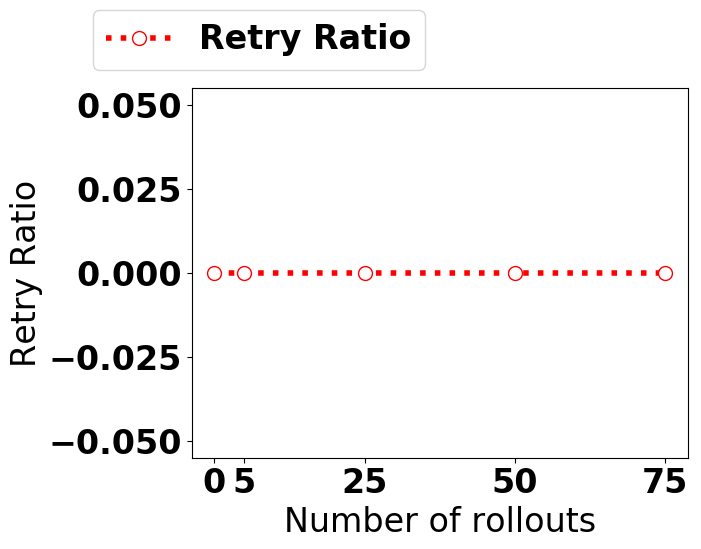
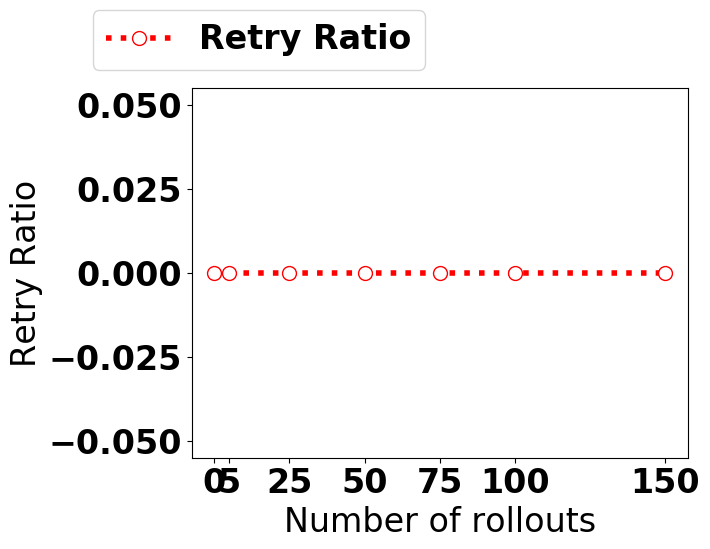
Optimizing success-ratio

diff --git a/RAE_and_RAEplan/RAE1_and_RAEplan.py b/RAE_and_RAEplan/RAE1_and_RAEplan.py
@@ -18,7 +18,7 @@ import sys, pprint
 import os
 import GLOBALS
 import rTree
-#import colorama
+import colorama
 from timer import globalTimer, DURATION
 from dataStructures import rL_APE, rL_PLAN
 from APE_stack import print_entire_stack, print_stack_size
@@ -271,12 +271,16 @@ def RAE1(task, raeArgs):
 
     if retcode == 'Failure':
         raeLocals.SetUtility(Utility('Failure'))
+        raeLocals.SetEfficiency(0)
+
+    if GLOBALS.GetOpt() == "max":
+        assert(numpy.isclose(raeLocals.GetEfficiency(), raeLocals.GetUtility().GetValue()))
 
     #raeLocals.GetActingTree().PrintUsingGraphviz()
     h, t, c = raeLocals.GetActingTree().GetMetaData()
     return (retcode, 
         raeLocals.GetRetryCount(), 
-        raeLocals.GetUtility(), 
+        raeLocals.GetEfficiency(), 
         h, t, c, 
         raeLocals.GetPlanningUtilitiesList())
 
@@ -293,6 +297,7 @@ def InitializeStackLocals(task, raeArgs):
     aT.SetPrevState(GetState().copy())
     raeLocals.SetActingTree(aT)
     raeLocals.SetUtility(Utility('Success'))
+    raeLocals.SetEfficiency(float("inf"))
     
 def GetCandidateByPlanning(candidates, task, taskArgs):
     """
@@ -311,7 +316,6 @@ def GetCandidateByPlanning(candidates, task, taskArgs):
         queue, 
         candidates,
         GetState().copy(),
-        raeLocals.GetGuideList(),
         raeLocals.GetSearchTree()])
 
     p.start()
@@ -366,6 +370,8 @@ def DoTaskInRealWorld(task, taskArgs):
 
         node.Clear() # Clear it on every iteration for a fresh start
         node.SetPrevState(GetState().copy())
+        if GLOBALS.GetOpt() == "sr": # there may be a better way to do this
+            raeLocals.SetUtility(Utility("Success"))
 
         (m,candidates) = choose_candidate(candidates, task, taskArgs)
         node.SetLabelAndType(m, 'method')
@@ -595,13 +601,18 @@ def FollowSearchTree_task(task, taskArgs, node):
 
 def GetHeuristicEstimate():
     task, args = planLocals.GetHeuristicArgs()
-    return heuristic[task](args)
+    res = heuristic[task](args)
+    if GLOBALS.GetOpt() == "sr":
+        if res > 0:
+            return 1
+        else:
+            return 0
+    return res
     
 def PlanTask(task, taskArgs):
     # Need to look through several candidates for this task
     cand, state, flag = GetCandidates(task, taskArgs)
 
-    #guideList = planLocals.GetGuideList()
     searchTreeNode = planLocals.GetSearchTreeNode()
     taskNode = rTree.SearchTreeNode('task', 'task')
     searchTreeNode.AddChild(taskNode)
@@ -776,6 +787,18 @@ def GetNewId():
     return GetNewId.num
 GetNewId.num = 0
 
+def AddEfficiency(e1, e2):
+
+    if e1 == float("inf"):
+        res = e2
+    elif e2 == float("inf"):
+        res = e1
+    elif e1 == 0 and e2 == 0:
+        res = 0
+    else:
+        res = e1 * e2 / (e1 + e2)
+    return res
+
 def DoCommandInRealWorld(cmd, cmdArgs):
     global path
     path[raeLocals.GetStackId()].append([cmd, cmdArgs])
@@ -845,11 +868,15 @@ def DoCommandInRealWorld(cmd, cmdArgs):
     if cmd.__name__ == "fail" or retcode == 'Failure':
         util1 = GetFailureUtility(cmd, cmdArgs)
         raeLocals.AddToPlanningUtilityList('fail')
+        eff1 = GetFailureEfficiency(cmd, cmdArgs)
     else:
         util1 = GetUtility(cmd, cmdArgs)
+        eff1 = GetEfficiency(cmd, cmdArgs)
         raeLocals.AddToPlanningUtilityList(cmd.__name__)
     util2 = raeLocals.GetUtility()
     raeLocals.SetUtility(util1 + util2)
+    eff2 = raeLocals.GetEfficiency()
+    raeLocals.SetEfficiency(AddEfficiency(eff1, eff2))
 
     if verbose > 1:
         print_entire_stack(raeLocals.GetStackId(), path)
@@ -1012,18 +1039,37 @@ def GetCost(cmd, cmdArgs):
         return cost
 
 def GetFailureUtility(cmd, cmdArgs):
-    return Utility(1/20)
+    if GLOBALS.GetOpt() != "sr":
+        return Utility(1/20)
+    else:
+        return Utility("Failure")
 
 def GetUtility(cmd, cmdArgs):
     assert(cmd.__name__ != "fail")
-    if GLOBALS.GetDomain() == "SD" and cmd.__name__ == "helpRobot":
+    if GLOBALS.GetDomain() == "SD" and cmd.__name__ == "helpRobot": # kluge because I forgot to add this cost in the auto-gen problems
+        cost = 7
+    else:
+        cost = DURATION.COUNTER[cmd.__name__]
+    if GLOBALS.GetOpt() == "sr":
+        return Utility("Success")
+    elif type(cost) == types.FunctionType:
+        return Utility(1/cost(*cmdArgs))
+    else:
+        return Utility(1/cost)
+
+def GetFailureEfficiency(cmd, cmdArgs):
+    return 1/20
+
+def GetEfficiency(cmd, cmdArgs):
+    assert(cmd.__name__ != "fail")
+    if GLOBALS.GetDomain() == "SD" and cmd.__name__ == "helpRobot": # kluge because I forgot to add this cost in the auto-gen problems
         cost = 7
     else:
         cost = DURATION.COUNTER[cmd.__name__]
     if type(cost) == types.FunctionType:
-        return Utility(1/cost(*cmdArgs))
+        return 1/cost(*cmdArgs)
     else:
-        return Utility(1/cost)
+        return 1/cost
 
 ## Verbosity functions 
 

diff --git a/shared/utility.py b/shared/utility.py
@@ -10,12 +10,21 @@ class Utility():
                 self.value = float("inf")
             else:
                 self.value = val    
-        else:
+        elif GLOBALS.GetOpt() == 'max':
             if val == 'Failure':
                 self.value = 0
             elif val == 'Success':
                 self.value = float("inf")
             else:
+                self.value = val
+        elif GLOBALS.GetOpt() == "sr":
+            if val == "Failure":
+                self.value = 0
+            elif val == "Success":
+                self.value = 1
+            else:
+                if val != "UNK":
+                    assert(val >= 0 and val <= 1)
                 self.value = val
 
     def __gt__(self, other): 
@@ -54,17 +63,22 @@ class Utility():
         return str(self.value)
 
     def __add__(self, other):
-        e1 = self.value
-        e2 = other.value
-        if e1 == float("inf"):
-            res = e2
-        elif e2 == float("inf"):
-            res = e1
-        elif e1 == 0 and e2 == 0:
-            res = 0
-        else:
-            res = e1 * e2 / (e1 + e2)
-        return Utility(res)
+        if GLOBALS.GetOpt() == "max":
+            e1 = self.value
+            e2 = other.value
+            if e1 == float("inf"):
+                res = e2
+            elif e2 == float("inf"):
+                res = e1
+            elif e1 == 0 and e2 == 0:
+                res = 0
+            else:
+                res = e1 * e2 / (e1 + e2)
+            return Utility(res)
+        elif GLOBALS.GetOpt() == "sr":
+            sr1 = self.value
+            sr2 = other.value
+            return Utility(sr1 * sr2)
 
     def SetValue(self, val):
         self.value = val

diff --git a/shared/domains/domain_testInstantiation.py b/shared/domains/domain_testInstantiation.py
@@ -11,9 +11,25 @@ import gui
 from state import state, rv
 from timer import globalTimer
 import GLOBALS
+import numpy
 
 def fail():
     return FAILURE
+
+commandProb = {
+    'sr1': [0.9, 0.1],
+    'sr2': [0.7, 0.3],
+    'sr3': [0.3, 0.7],
+}
+
+def Sense(cmd):
+    p = commandProb[cmd]
+    outcome = numpy.random.choice(len(p), 50, p=p)
+    res = outcome[0]
+    if res == 0:
+        return SUCCESS
+    else:
+        return FAILURE
 
 def m1_t(o):
     print("object is ", o, "\n")
@@ -73,16 +89,54 @@ def m2_t3():
     alg.do_task("t1")
     alg.do_task("t2")
 
+
+# success ratio optimization test
+
+def sr1():
+    gui.Simulate('sr1')
+    res = Sense('sr1')
+    return res
+
+def sr2():
+
+    gui.Simulate('sr2')
+    res = Sense('sr2')
+    return res
+
+def sr3():
+    gui.Simulate('sr3')
+    res = Sense('sr3')
+    return res
+
+def m1_tsr():
+    alg.do_task('t_sr1')
+
+def m2_tsr():
+    alg.do_task('t_sr2')
+
+def m1_tsr1():
+    alg.do_command(sr1)
+    alg.do_command(sr3)
+
+def m1_tsr2():
+    alg.do_command(sr2)
+
 alg.declare_task('t', 'o')
 alg.declare_task('t1')
 alg.declare_task('t2')
 alg.declare_task('t3')
+alg.declare_task('t_sr')
+alg.declare_task('t_sr1')
+alg.declare_task('t_sr2')
 
 alg.declare_methods('t', m1_t, m2_t, m3_t, m4_t)
 alg.declare_methods('t1', m1_t1, m2_t1)
 alg.declare_methods('t2', m1_t2, m2_t2)
 alg.declare_methods('t3', m1_t3, m2_t3)
+alg.declare_methods('t_sr', m1_tsr, m2_tsr)
+alg.declare_methods('t_sr1', m1_tsr1)
+alg.declare_methods('t_sr2', m1_tsr2)
 
-alg.declare_commands([fail, t1_c1, t1_c2])
+alg.declare_commands([fail, t1_c1, t1_c2, sr1, sr2, sr3])
 
 

diff --git a/test_scripts/AIJ/results/merge_results.py b/test_scripts/AIJ/results/merge_results.py
@@ -22,7 +22,7 @@ UCT_max_depth = {
     "SR": [5, 25, 50, 75],
     "EE": [5, 25, 50, 75],
     "IP": [],
-    "OF": [5, 25, 50, 75],
+    "OF": [5, 25, 50, 75, 100, 150],
 }
 
 b_lim_depth = {
@@ -49,7 +49,7 @@ UCT_lim_depth = {
     "SR": [5, 25, 50],
     "EE": [5, 25, 50],
     "IP": [],
-    "OF": [5, 25, 50],
+    "OF": [5, 25, 50, 75, 100],
 }
 
 DEPTH = {
@@ -58,7 +58,7 @@ DEPTH = {
     "SR": [5, 10, 15],
     "EE": [5, 10, 15],
     "IP": [5, 10, 15],
-    "OF": [5, 10, 15],
+    "OF": [10, 15], # 5
 }
 def MergeHelper(l, name):
     fwrite = open(name, "w")
@@ -109,7 +109,7 @@ def Merge(domain, mode, depth):
                 MergeHelper(fList, fName)
 
 if __name__ == "__main__":
-    for domain in ["EE"]:
+    for domain in ["OF"]:
         for mode in ["UCT"]:
             for depth in ["max", "lim"]:
                 Merge(domain, mode, depth)

diff --git a/RAE_and_RAEplan/RAE.py b/RAE_and_RAEplan/RAE.py
@@ -273,7 +273,7 @@ def CreateNewStackSimulation(pArgs, queue):
         method, util = methodUtil
     queue.put((method, util, planningTime))
 
-def RAEPlanMain(task, taskArgs, queue, candidateMethods, state, gL, searchTree):
+def RAEPlanMain(task, taskArgs, queue, candidateMethods, state, searchTree):
     # Simulating one stack now
     # TODO: Simulate multiple stacks in future
 
@@ -286,7 +286,6 @@ def RAEPlanMain(task, taskArgs, queue, candidateMethods, state, gL, searchTree):
     pArgs.SetStackId(1)
     pArgs.SetTask(task)
     pArgs.SetCandidates(candidateMethods)
-    pArgs.SetGuideList(gL)
     pArgs.SetState(state)
     pArgs.SetSearchTree(searchTree)
 

diff --git a/test_scripts/AIJ/analyze_for_journal.py b/test_scripts/AIJ/analyze_for_journal.py
@@ -44,7 +44,7 @@ K_max_depth = {
 Depth = {
     'SR': [0, 5, 10, 15],
     'CR': [0, 5, 10, 15],
-    'OF': [0, 5, 10, 15],
+    'OF': [0, 10, 15], # 5
     'SD': [0, 5, 10, 15],
     'EE': [0, 5, 10, 15],
 }
@@ -52,7 +52,7 @@ Depth = {
 UCT_max_depth = {
     'CR': [0,5, 25, 50, 75],
     'SR': [0,5,25,50,75],
-    'OF': [0, 5, 25, 50, 75],
+    'OF': [0, 5, 25, 50, 75, 100, 150],
     'SD': [0, 5, 25, 50, 75],
     'EE': [0, 5, 25, 50, 75],
 }
@@ -60,7 +60,7 @@ UCT_max_depth = {
 UCT_lim_depth = {
     'CR': [5, 25, 50],
     'SR': [5, 25, 50],
-    'OF': [5, 25, 50],
+    'OF': [5, 25, 50, 75, 100],
     'SD': [5, 25, 50],
     'EE': [5, 25, 50],
 }

diff --git a/shared/rTree.py b/shared/rTree.py
@@ -619,7 +619,7 @@ class SearchTreeNode():
         index = None
         bestQ = Utility('Failure')
         
-        l = [q.GetValue() for q in self.Q]
+        #l = [q.GetValue() for q in self.Q]
         for i in range(0, len(self.Q)):
             if self.Q[i] > bestQ:
                 bestQ = self.Q[i]

diff --git a/shared/dataStructures.py b/shared/dataStructures.py
@@ -77,6 +77,12 @@ class rL_APE(rL):
     def GetPlanningUtilitiesList(self):
         return self.rL.planningUtilities
 
+    def SetEfficiency(self, e):
+        self.rL.eff = e
+
+    def GetEfficiency(self):
+        return self.rL.eff
+
 class rL_PLAN(rL):
 
     def __init__(self):

diff --git a/shared/GLOBALS.py b/shared/GLOBALS.py
@@ -69,7 +69,7 @@ def GetOpt():
     return g.opt 
 
 def SetOpt(opt):
-    assert(opt == 'min' or opt == 'max')
+    assert(opt == 'min' or opt == 'max' or opt == "sr")
     g.opt = opt
 
 def SetUCTRuns(v):
